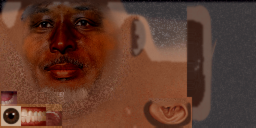
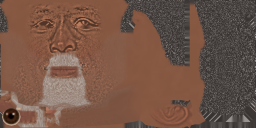
cm1: repaint the Jets' and Tampa Bay's coach heads (natural brown skin, Glenn's white goatee, Bowles's beard)
co2's Aaron Glenn and Todd Bowles faces were a saturated red and orange; both are now one natural brown tone painted on
the head mesh, Glenn with his white moustache and goatee and short grey hair under the cap, Bowles with a short
grey-black beard and brown eyes (the 2004 Gruden eye atlas was blue). cm1_repair owns these two scenes as well.

Claude-Session: https://claude.ai/code/session_01WKYAfLhiCRdZsnsRVwQWxe

diff --git a/tools/b77/cm1_repair.py b/tools/b77/cm1_repair.py
@@ -1,16 +1,18 @@
 #!/usr/bin/env python3
 """cm1: carry the b77 cm1 coach-model change into a copy of the v0.6.1 disc, in place, with receipts.
 
-What cm1 changes on a disc: the coach scene (``cNN.iff`` chunk 0, one fixed span each) of nine clubs.
+What cm1 changes on a disc: the coach scene (``cNN.iff`` chunk 0, one fixed span each) of eleven clubs.
 
 * Washington (Dan Quinn, c29): a bald head (the 2004 hair volume off the scalp, the headset band and the low-detail
   head following), a new head texture (one pale skin tone, his white goatee, no hair layout);
 * Dallas (Brian Schottenheimer, c07): a new head texture (a grey, salt-and-pepper beard instead of the dark smudge);
+* the Jets (Aaron Glenn, c19) and Tampa Bay (Todd Bowles, c27): new head textures (natural brown skin instead of a
+  saturated red or orange, Glenn's white goatee, Bowles's grey-black beard and brown eyes);
 * Cincinnati, Carolina, Green Bay, Tennessee, the Rams, San Francisco, Minnesota (c06, c09, c10, c15, c23, c25, c28):
   a lean body taken from a leaner retail coach of the same mesh family, and a new head texture.
 
 Everything else on the disc is left as it is. The input must be the v0.6.1 shortcut disc, or co3's output of it (the two
-Coach Matchup pictures already replaced); any other hash is refused. Those nine scenes must read ``previous`` (the
+Coach Matchup pictures already replaced); any other hash is refused. Those eleven scenes must read ``previous`` (the
 co2 coaches the v0.6.1 disc carries) and every other coach part ``applied``. The scenes are compiled from the user's
 retail image (``--retail``), exactly as a Studio build compiles them.
 
@@ -41,7 +43,7 @@ INPUTS = {
[1 lines of base64/hex data omitted]
 }
 INPUT_SIZE = 6_004_408_320
-OWNED = ("WAS", "DAL", "CIN", "CAR", "GB", "TEN", "LAR", "SF", "MIN")
+OWNED = ("WAS", "DAL", "CIN", "CAR", "GB", "TEN", "LAR", "SF", "MIN", "NYJ", "TB")
 BLOCK = 1 << 23
 
 
@@ -143,7 +145,7 @@ def main(argv=None) -> int:
     owned_states = {k: states[k] for k in sorted(owned_keys)}
     if image_sha == original_sha:
         if set(owned_states.values()) != {"previous"}:
-            refuse(f"the input's nine coach scenes read {owned_states}, expected the v0.6.1 coaches (previous)")
+            refuse(f"the input's owned coach scenes read {owned_states}, expected the v0.6.1 coaches (previous)")
     elif set(owned_states.values()) != {"applied"}:
         refuse(f"--image is {image_sha}: neither the input disc nor a disc carrying this repair")
     plan, rows = mc.plan_image(a.image, retail=a.retail)
@@ -153,7 +155,7 @@ def main(argv=None) -> int:
     owned_plan = [p for p, r in zip(plan, plan_rows) if r["kind"] == "coach" and r["team"] in OWNED]
     owned_rows = [rows[i] for i in keep]
     if image_sha == original_sha and sorted(r["team"] for r in owned_rows) != sorted(OWNED):
-        refuse(f"the plan is not exactly the nine coach scenes: {[r['team'] for r in owned_rows]}")
+        refuse(f"the plan is not exactly the owned coach scenes: {[r['team'] for r in owned_rows]}")
     ranges = owned_ranges(a.image, owned_rows)
     with mc._outer_image()(a.image, writable=True) as archive:
         mc._write_all(archive, owned_plan)                   # checks each span against its preflight, reads back

diff --git a/tools/b77/cm1_coach_models.py b/tools/b77/cm1_coach_models.py
@@ -130,6 +130,28 @@ RECIPES: dict[str, dict] = {
                       sideburn=38.6),
             facial=[dict(kind="stubble", parts=("moustache", "corners", "chin", "cheeks"), colour=(80, 70, 64), density=0.14)]),
     },
+    # Aaron Glenn: medium-dark brown skin (co2's was a saturated red); very short grey-black hair under the cap; a white
+    # moustache and goatee
+    "NYJ": {
+        "who": "Aaron Glenn",
+        "head": dict(
+            skin=(134, 88, 66), warm=(132, 80, 62), neck=0.06, mottling=0.03, lips=(118, 72, 64), brows=(58, 40, 32),
+            brow_strength=0.5,
+            hair=dict(colour=(58, 52, 50), grey=0.35, grey_colour=(150, 146, 142), front=46.0, recede=1.0, side=43.5,
+                      back=34.5, sideburn=38.8),
+            facial=[dict(parts=("moustache", "corners", "chin"), colour=(206, 204, 200), density=0.8),
+                    dict(kind="stubble", parts=("cheeks", "neck"), colour=(150, 146, 142), density=0.18)]),
+    },
+    # Todd Bowles: dark brown skin (co2's was a saturated orange); shaved head under the cap; a short grey-black beard
+    "TB": {
+        "who": "Todd Bowles",
+        "head": dict(
+            skin=(100, 64, 50), warm=(100, 58, 46), neck=0.06, mottling=0.03, lips=(104, 62, 56), brows=(48, 34, 28),
+            brow_strength=0.5, eyes=(80, 52, 36),
+            hair=dict(colour=(44, 36, 32), opacity=0.25, front=46.0, recede=1.4, side=43.0, back=34.5, sideburn=38.6),
+            facial=[dict(kind="stubble", parts=("moustache", "corners", "chin", "cheeks", "neck"), colour=(64, 58, 56),
+                         density=0.45, light=0.3, light_colour=(140, 136, 132))]),
+    },
     # Kevin O'Connell: fair skin; light-brown hair, a little receded; clean-shaven; lean and tall
     "MIN": {
         "who": "Kevin O'Connell",
@@ -669,6 +691,18 @@ def paint_head(head: dict, detail_rgba: np.ndarray, r: dict, scale: int = 4) -> 
     # (covered by their own triangles) keeps the previous texture's pixels
     out = np.clip(dilate(np.where(skin[..., None], rgb, 0.0), skin, 4 * W), 0, 1)
     out = np.where((cov & ~skin)[..., None], src, out)
+    if r.get("eyes"):
+        # brown eyes for a brown-eyed coach on a model whose 2004 eye is blue (luminance kept, the white untouched)
+        eye_tris = np.array([t[0] not in main and float(np.mean(head["P"][t][:, 2])) > 13.0 for t in T])
+        eye = cov & ~skin & eye_tris[np.maximum(tri, 0)]
+        lum = src[..., 0] * 0.299 + src[..., 1] * 0.587 + src[..., 2] * 0.114
+        # the iris is where the atlas is blue (a blue 2004 eye on a brown-eyed coach): those texels take his colour
+        blue = src[..., 2] - np.maximum(src[..., 0], src[..., 1] * 0.9)
+        iris = (eye * smoothstep(0.0, 0.08, blue)).astype(float)
+        target = np.array(r["eyes"]) / 255.0
+        tl = target[0] * 0.299 + target[1] * 0.587 + target[2] * 0.114
+        recol = np.clip(target[None, None, :] * (lum / max(tl, 1e-3))[..., None], 0, 1)
+        out = out * (1 - iris[..., None]) + recol * iris[..., None]
     small = out.reshape(H0, scale, W0, scale, 3).mean(axis=(1, 3))
     rgba = np.concatenate([np.clip(np.rint(small * 255), 0, 255), np.full((H0, W0, 1), 255.0)], -1).astype(np.uint8)
     return rgba

diff --git a/tools/b77/modern_art_png_catalog.py b/tools/b77/modern_art_png_catalog.py
@@ -32,7 +32,8 @@ CLASSIFICATION = ("Reviewed authored 2026/2025-26 art for the modern coaches (co
                   "likeness textures ship, the reference photos never do). The two Coach Matchup pictures (7031 Dallas, 7034 "
                   "Washington) are renders of the game's own coach for that club, not photographs. The accessories atlas "
                   "ships only its authored headset half (headset.png); the shoe and clipboard come from the user's disc. "
-                  "b77 cm1 repainted nine coach heads (WAS, DAL, CIN, CAR, GB, TEN, LAR, SF, MIN) in 3D on the head mesh: "
+                  "b77 cm1 repainted eleven coach heads (WAS, DAL, CIN, CAR, GB, TEN, LAR, SF, MIN, NYJ, TB) in 3D on the "
+                  "head mesh: "
                   "one painted skin tone, painted hair and facial hair, and only the fine feature detail of co2's "
                   "authored faces. "
                   "No photograph or photo crop and no retail-extracted pixels are listed; retail details are taken from "

diff --git a/mod_editor/core/nfl2k5_modern_coaches.py b/mod_editor/core/nfl2k5_modern_coaches.py
@@ -52,7 +52,8 @@ moves the scene's own vertices (``apply_geometry``: integer positions and normal
 any mesh but the one each shape was authored on). Washington's Dan Quinn has a bald head (the 2004 hair volume off the
 scalp; the headset band and the low-detail head follow); seven lean coaches (CIN, CAR, GB, TEN, LAR, SF, MIN) wear the
 lean body of a retail coach of the same mesh family. The vertex count, triangles, skin weights, skeleton and animations
-are retail. Their heads, and Dallas's, are painted on the head mesh in 3D (one skin tone, painted hair and facial hair).
+are retail. Their heads, and those of Dallas, the Jets and Tampa Bay, are painted on the head mesh in 3D (one skin
+tone, painted hair and facial hair).
 
 EXPERIMENTAL and UNWITNESSED: proved offline (decoded textures, byte receipts, renders from the data); the look in
 the game is for Noah's eyes.

diff --git a/packaging/check_2k5_mod_studio_release.py b/packaging/check_2k5_mod_studio_release.py
@@ -332,7 +332,7 @@ ANNIVERSARY_FIELD_PNG_CATALOG_SHA256 = "bd57194fa4708fe8c5c45b5dcdcbe4c9195594dc
 # reviewed as authored art: no photograph or photo crop and no retail-extracted pixels. It grants no general PNG
 # exception inside those folders; tools/b77/modern_art_png_catalog.py regenerates it and prints the digest below.
 MODERN_ART_PNG_CATALOG = "packaging/nfl2k5_modern_art_pngs.json"
[2 lines of base64/hex data omitted]
 
 
 def _scorebug_template_pngs(root: Path) -> dict:

diff --git a/data/nfl2k5_modern_coaches/README.md b/data/nfl2k5_modern_coaches/README.md
@@ -11,7 +11,7 @@ texture packs, not this repository):
 | `logo.png` 64x64 | `shirtLogoShader1`, `jacketLogoShader1` | the club's 2026 logo where the chest mark quad samples (v 0.41-1.11); the 2004 maker mark is gone |
 | `headset.png` 64x64 | `accessoriesShader1`, `clipboardShader1` (the left half, x < 64, of the 128x64 atlas) | unbranded matte black headset (the 2004 earcup and band marks are gone). The shoe and clipboard half of the atlas is not shipped: the build derives it from the user's own disc texture (`derive_accessories`, the 4x bicubic round trip the art was authored through, in integers), so the disc bytes equal those of the earlier full-atlas file (b77 co3) |
 | `head.png` 256x128 | `headShader1` | the 2026 head coach's face moved onto the retail head of the body he wears (co2: 468-point landmark warp, the photo's lighting removed, the 2004 shading kept, Poisson-blended, closed mouth, his hair colour on the model's hair layout) |
-| `head.png` (cm1: WAS, DAL, CIN, CAR, GB, TEN, LAR, SF, MIN) 256x128 | `headShader1` | painted per texel at its 3D point on the head mesh (`tools/b77/cm1_coach_models.py head`): one skin tone over the whole head (no face oval, no seam where the UV islands meet), his hair painted above his hairline or a bald scalp, facial hair painted as shapes around the face rig (a grey beard reads grey, never a dark smudge on a light face), and only the fine feature detail (eyes, nose, mouth creases, ears) of co2's face |
+| `head.png` (cm1: WAS, DAL, CIN, CAR, GB, TEN, LAR, SF, MIN, NYJ, TB) 256x128 | `headShader1` | painted per texel at its 3D point on the head mesh (`tools/b77/cm1_coach_models.py head`): one skin tone over the whole head (no face oval, no seam where the UV islands meet), his hair painted above his hairline or a bald scalp, facial hair painted as shapes around the face rig (a grey beard reads grey, never a dark smudge on a light face), and only the fine feature detail (eyes, nose, mouth creases, ears) of co2's face; Tampa Bay's 2004 blue eye atlas recoloured brown |
 | `geometry.json` (cm1: WAS, CIN, CAR, GB, TEN, LAR, SF, MIN) | the coach scene's `coachHeadGrp1`, `coachBodyGrp1`, `coachLodGrp1` vertex lanes | authored vertex edits as integers: new NORMSHORT3 positions and NORMPACKED3 normals for the vertices that move, each shape pinned by the SHA-256 of its retail lanes. WAS: Dan Quinn's bald head (the 2004 hair volume off the scalp, up to 1 cm on the crown), with the headset band and the low-detail head following. The seven others: a lean body (torso, hips and legs of a leaner retail coach of the same mesh family; neck, headset, glasses and hands stay), with the low-detail body following. Same vertex count, triangles, skin weights, skeleton and animations |
 | `KC/head_mask.png` 256x128 | `headShader1` (c21) | Kansas City only, in place of head.png: R = weight, G = class x 80 (1 hair, 2 brows, 3 moustache) of the recolour the build applies to the disc's own 2004 Reid face |
 | `KC/head_overlay.png` 256x128 RGBA | `headShader1` (c21) | Kansas City only: Reid's glasses, painted (the 2004 Reid model has no glasses geometry) |
